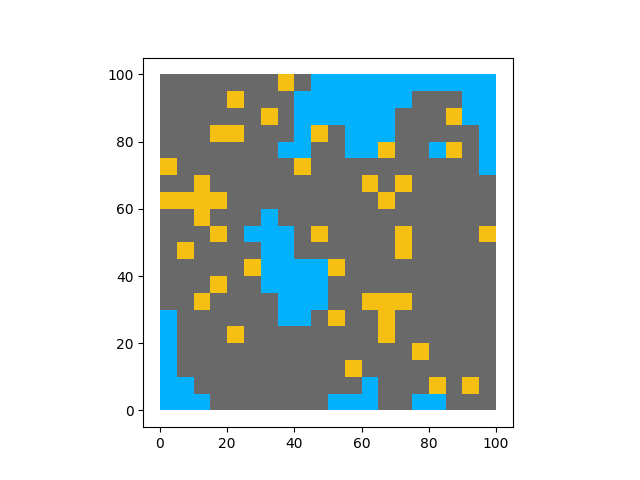
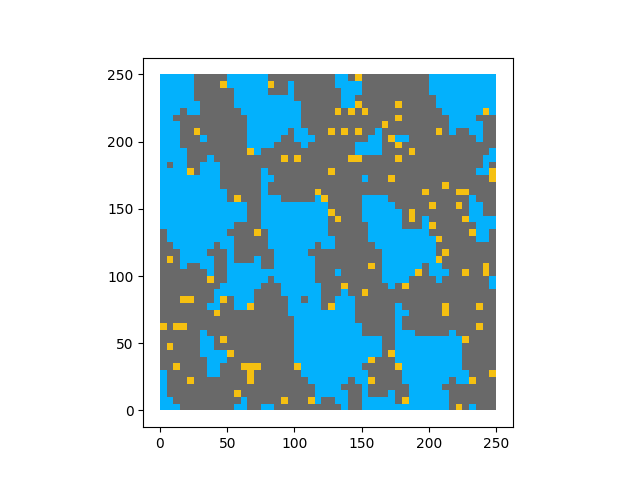
replaced hashes w/ permutation table

diff --git a/cairo/tests/test_game.py b/cairo/tests/test_game.py
@@ -36,7 +36,7 @@ async def test_mine_block(contract_factory):
     print("Test mining blocks")
     contract = contract_factory
 
-    test_block_location = (1,1,1)
+    test_block_location = (1,1,95)
     # Get block type
     init_block = await contract.get_block(*test_block_location).invoke()
     prev_block_balance = await contract.get_block_balance(0, init_block.result.block_type).call()
@@ -65,7 +65,7 @@ async def test_place_block(contract_factory):
     print("Test placing blocks")
     contract = contract_factory
 
-    test_block_location = (1,1,2)
+    test_block_location = (1,2,95)
     # Mine a block
     mined_block = await contract.mine_block(*test_block_location).invoke()
     block_type = mined_block.result.block_type

diff --git a/cairo/tests/viz.py b/cairo/tests/viz.py
@@ -42,8 +42,8 @@ async def test_create_viz(contract_factory):
     plt.axes()
     colors = ["#03b1fc", "#696969", "#703307", "#347812", "#f5c011"]
 
-    BLOCKS_PER_CALL = 20
-    NUM_COLS = 20
+    BLOCKS_PER_CALL = 50
+    NUM_COLS = 50
     for i in range(NUM_COLS):
         print(f"{i+1}/{NUM_COLS}")
         blocks = (await contract.get_blocks(i,Y,Z, BLOCKS_PER_CALL).invoke()).result.block_states
